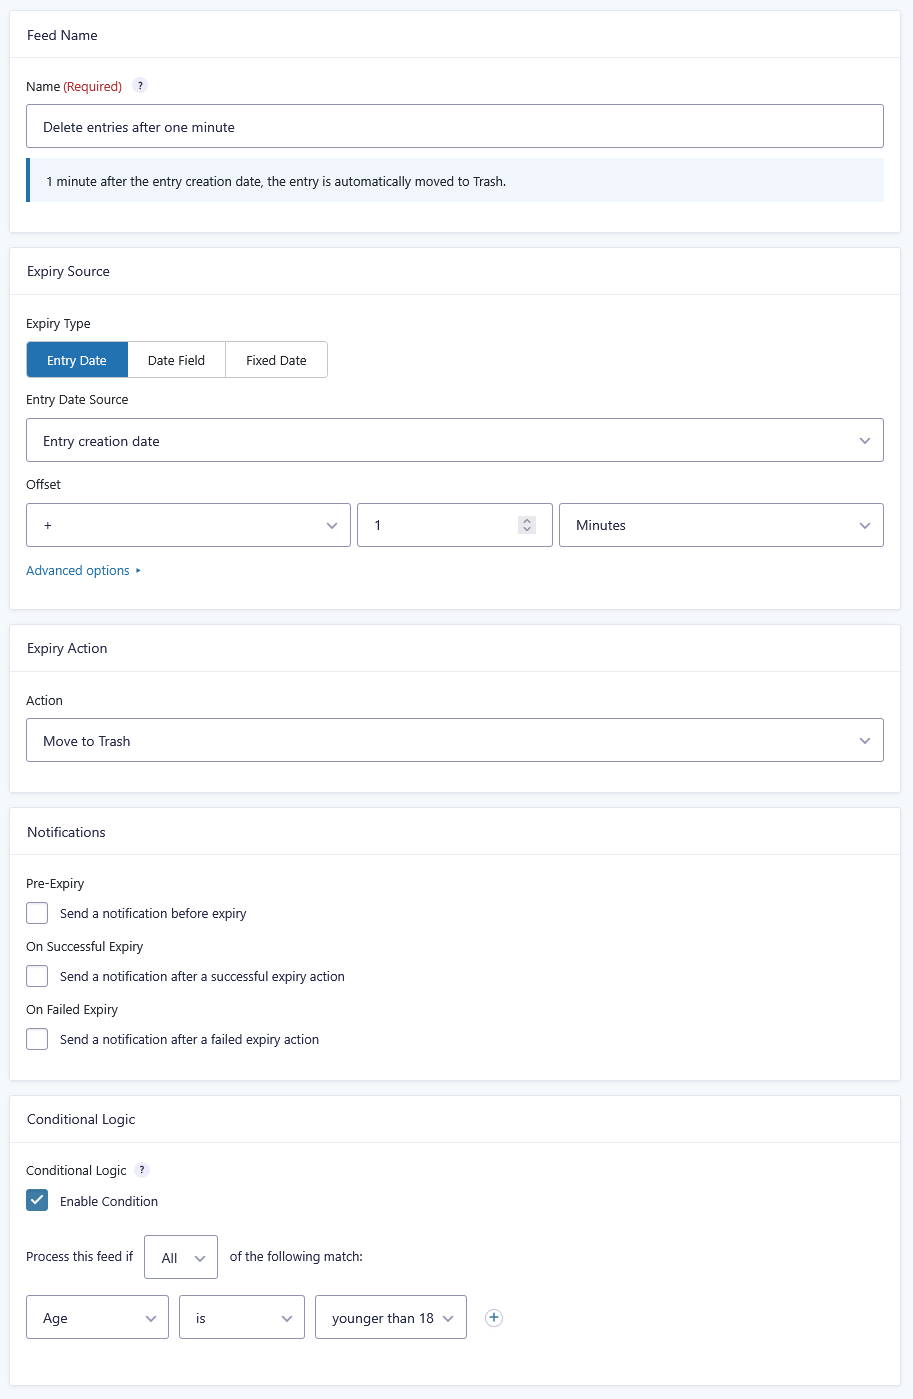
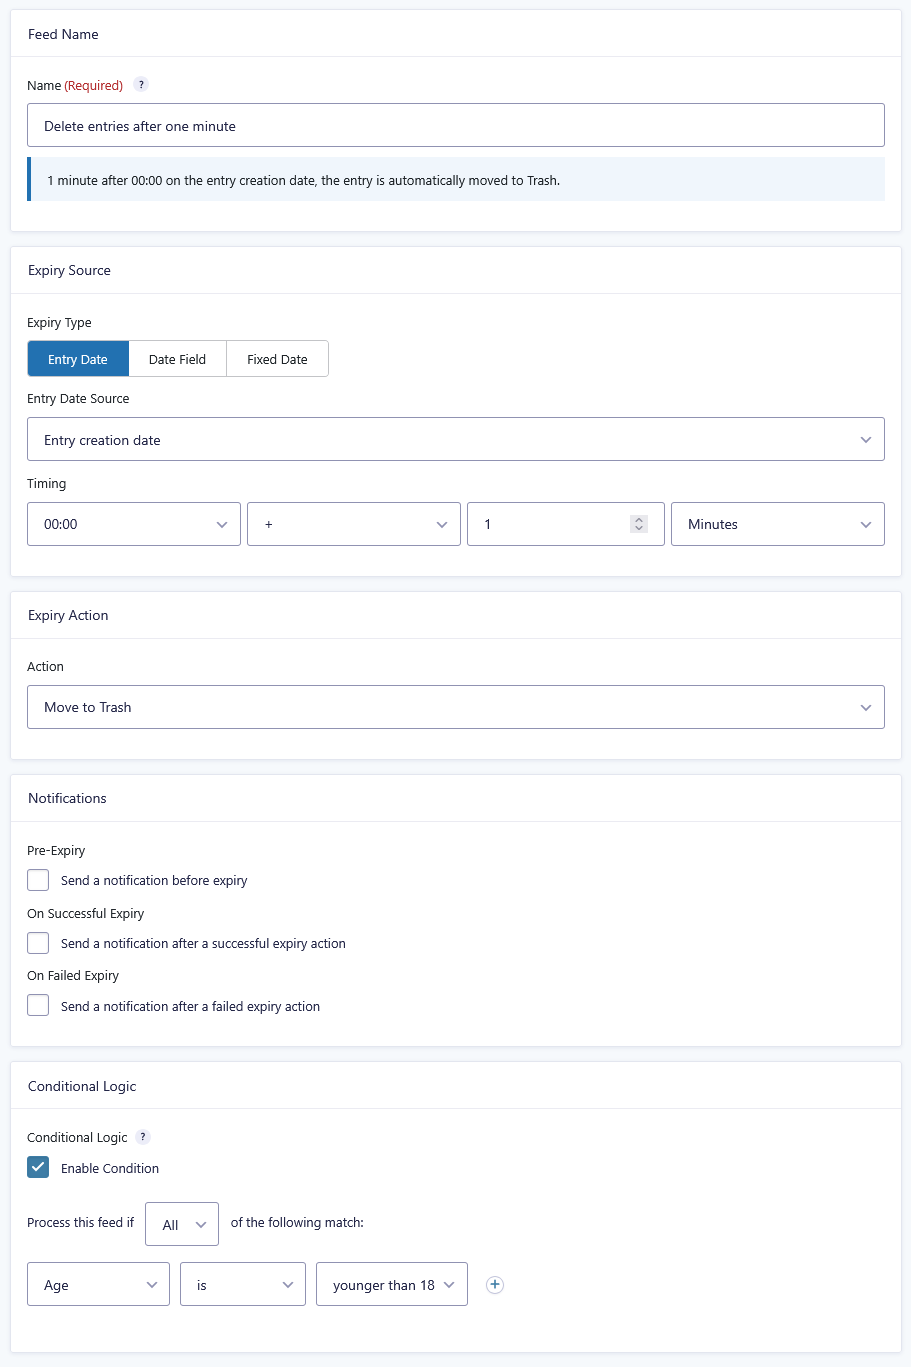
1.2.2

diff --git a/admin/assets/feed-settings.js b/admin/assets/feed-settings.js
@@ -291,13 +291,20 @@
             fixed_expiry_date: type === 'fixed',
             date_field_id:     type === 'dynamic',
             entry_meta_source: type === 'entry_meta',
-            offset_value:      type === 'dynamic' || type === 'entry_meta',
             expiry_time:       true
         };
 
         $.each(show, function (fieldName, visible) {
             getSettingRow(fieldName)[visible ? 'show' : 'hide']();
         });
+
+        // Auto-select the only date field when switching to dynamic.
+        if (type === 'dynamic') {
+            var $sel = $('[name="_gform_setting_date_field_id"]');
+            if ($sel.length && !$sel.val() && $sel.find('option').length === 2) {
+                $sel.val($sel.find('option').last().val()).trigger('change');
+            }
+        }
     }
 
     /**

diff --git a/admin/assets/feed-settings.css b/admin/assets/feed-settings.css
@@ -126,15 +126,15 @@
 	margin: 0;
 }
 
-/* ── Offset inline: direction + value + unit on one row ───────────────── */
-.gf-aee-offset-inline {
+/* ── Timing inline: Expire At + direction + value + unit on one row ──── */
+.gf-aee-timing-inline {
 	display: flex;
 	gap: 6px;
 	align-items: center;
 }
 
-.gf-aee-offset-inline > select,
-.gf-aee-offset-inline > input {
+.gf-aee-timing-inline > select,
+.gf-aee-timing-inline > input {
 	flex: 1 1 0;
 	min-width: 0;
 }

diff --git a/includes/class-gf-aee-addon.php b/includes/class-gf-aee-addon.php
@@ -533,15 +533,15 @@ class GF_AEE_Addon extends GFFeedAddOn
     /**
      * Render inline offset: direction + value + unit on one line (custom field type).
      */
-    public function settings_offset_inline($field, $echo = true)
+    /**
+     * Render the combined "Expire At" + "Offset" timing row.
+     */
+    public function settings_expiry_timing($field, $echo = true)
     {
-        $value_name = rgar($field, 'name');
-        $dir_name   = rgar($field, 'dir_name', 'offset_direction');
-        $unit_name  = rgar($field, 'unit_name', 'offset_unit');
-
-        $current_value = $this->get_setting($value_name, '0');
-        $current_dir   = $this->get_setting($dir_name, '+');
-        $current_unit  = $this->get_setting($unit_name, 'minutes');
+        $current_time  = $this->get_setting('expiry_time', '');
+        $current_dir   = $this->get_setting('offset_direction', '+');
+        $current_value = $this->get_setting('offset_value', '0');
+        $current_unit  = $this->get_setting('offset_unit', 'minutes');
 
         $units = array(
             'minutes' => esc_html__('Minutes', 'gf-advanced-expiring-entries'),
@@ -553,19 +553,25 @@ class GF_AEE_Addon extends GFFeedAddOn
 
         ob_start();
         ?>
-        <div class="gf-aee-offset-inline">
-            <select name="_gform_setting_<?php echo esc_attr($dir_name); ?>"
-                    class="gform-input__select">
+        <div class="gf-aee-timing-inline">
+            <select name="_gform_setting_expiry_time" class="gform-input__select">
+                <option value="" <?php selected($current_time, ''); ?>>— <?php esc_html_e('No specific time', 'gf-advanced-expiring-entries'); ?> —</option>
+                <?php for ($h = 0; $h < 24; $h++) :
+                    $t = sprintf('%02d:00', $h); ?>
+                    <option value="<?php echo esc_attr($t); ?>" <?php selected($current_time, $t); ?>><?php echo esc_html($t); ?></option>
+                <?php endfor; ?>
+                <option value="23:59" <?php selected($current_time, '23:59'); ?>>23:59</option>
+            </select>
+            <select name="_gform_setting_offset_direction" class="gform-input__select">
                 <option value="+" <?php selected($current_dir, '+'); ?>>+</option>
                 <option value="-" <?php selected($current_dir, '-'); ?>>−</option>
             </select>
             <input type="number"
-                   name="_gform_setting_<?php echo esc_attr($value_name); ?>"
+                   name="_gform_setting_offset_value"
                    value="<?php echo esc_attr($current_value); ?>"
                    class="gform-input__input small"
                    min="0" />
-            <select name="_gform_setting_<?php echo esc_attr($unit_name); ?>"
-                    class="gform-input__select">
+            <select name="_gform_setting_offset_unit" class="gform-input__select">
                 <?php foreach ($units as $val => $label) : ?>
                     <option value="<?php echo esc_attr($val); ?>" <?php selected($current_unit, $val); ?>>
                         <?php echo esc_html($label); ?>

diff --git a/includes/class-gf-aee-feed-settings.php b/includes/class-gf-aee-feed-settings.php
@@ -120,22 +120,11 @@ class GF_AEE_Feed_Settings
                     ),
                     'default_value' => 'date_created',
                 ),
-                // Expire At — specific time of day.
+                // Expire At + Offset — combined on a single line.
                 array(
-                    'label'         => esc_html__('Expire At', 'gf-advanced-expiring-entries'),
-                    'type'          => 'select',
-                    'name'          => 'expiry_time',
-                    'choices'       => self::get_time_choices(),
-                    'default_value' => '',
-                ),
-                // Offset – inline direction + value + unit (enabled by default).
-                array(
-                    'label'      => esc_html__('Offset', 'gf-advanced-expiring-entries'),
-                    'type'       => 'offset_inline',
-                    'name'       => 'offset_value',
-                    'dir_name'   => 'offset_direction',
-                    'unit_name'  => 'offset_unit',
-                    'default_value' => '0',
+                    'label'      => esc_html__('Timing', 'gf-advanced-expiring-entries'),
+                    'type'       => 'expiry_timing',
+                    'name'       => 'expiry_time',
                 ),
             ),
         );
@@ -430,22 +419,6 @@ class GF_AEE_Feed_Settings
     }
 
 	/* ─── Helpers ──────────────────────────────────────────────────────── */
-
-    /**
-     * Build hourly time-of-day choices for the "Expire At" select.
-     */
-    private static function get_time_choices()
-    {
-        $choices = array(
-            array('label' => '— ' . esc_html__('No specific time', 'gf-advanced-expiring-entries') . ' —', 'value' => ''),
-        );
-        for ($h = 0; $h < 24; $h++) {
-            $time      = sprintf('%02d:00', $h);
-            $choices[] = array('label' => $time, 'value' => $time);
-        }
-        $choices[] = array('label' => '23:59', 'value' => '23:59');
-        return $choices;
-    }
 
     /**
      * Build choices array from all date-type fields in a form.
